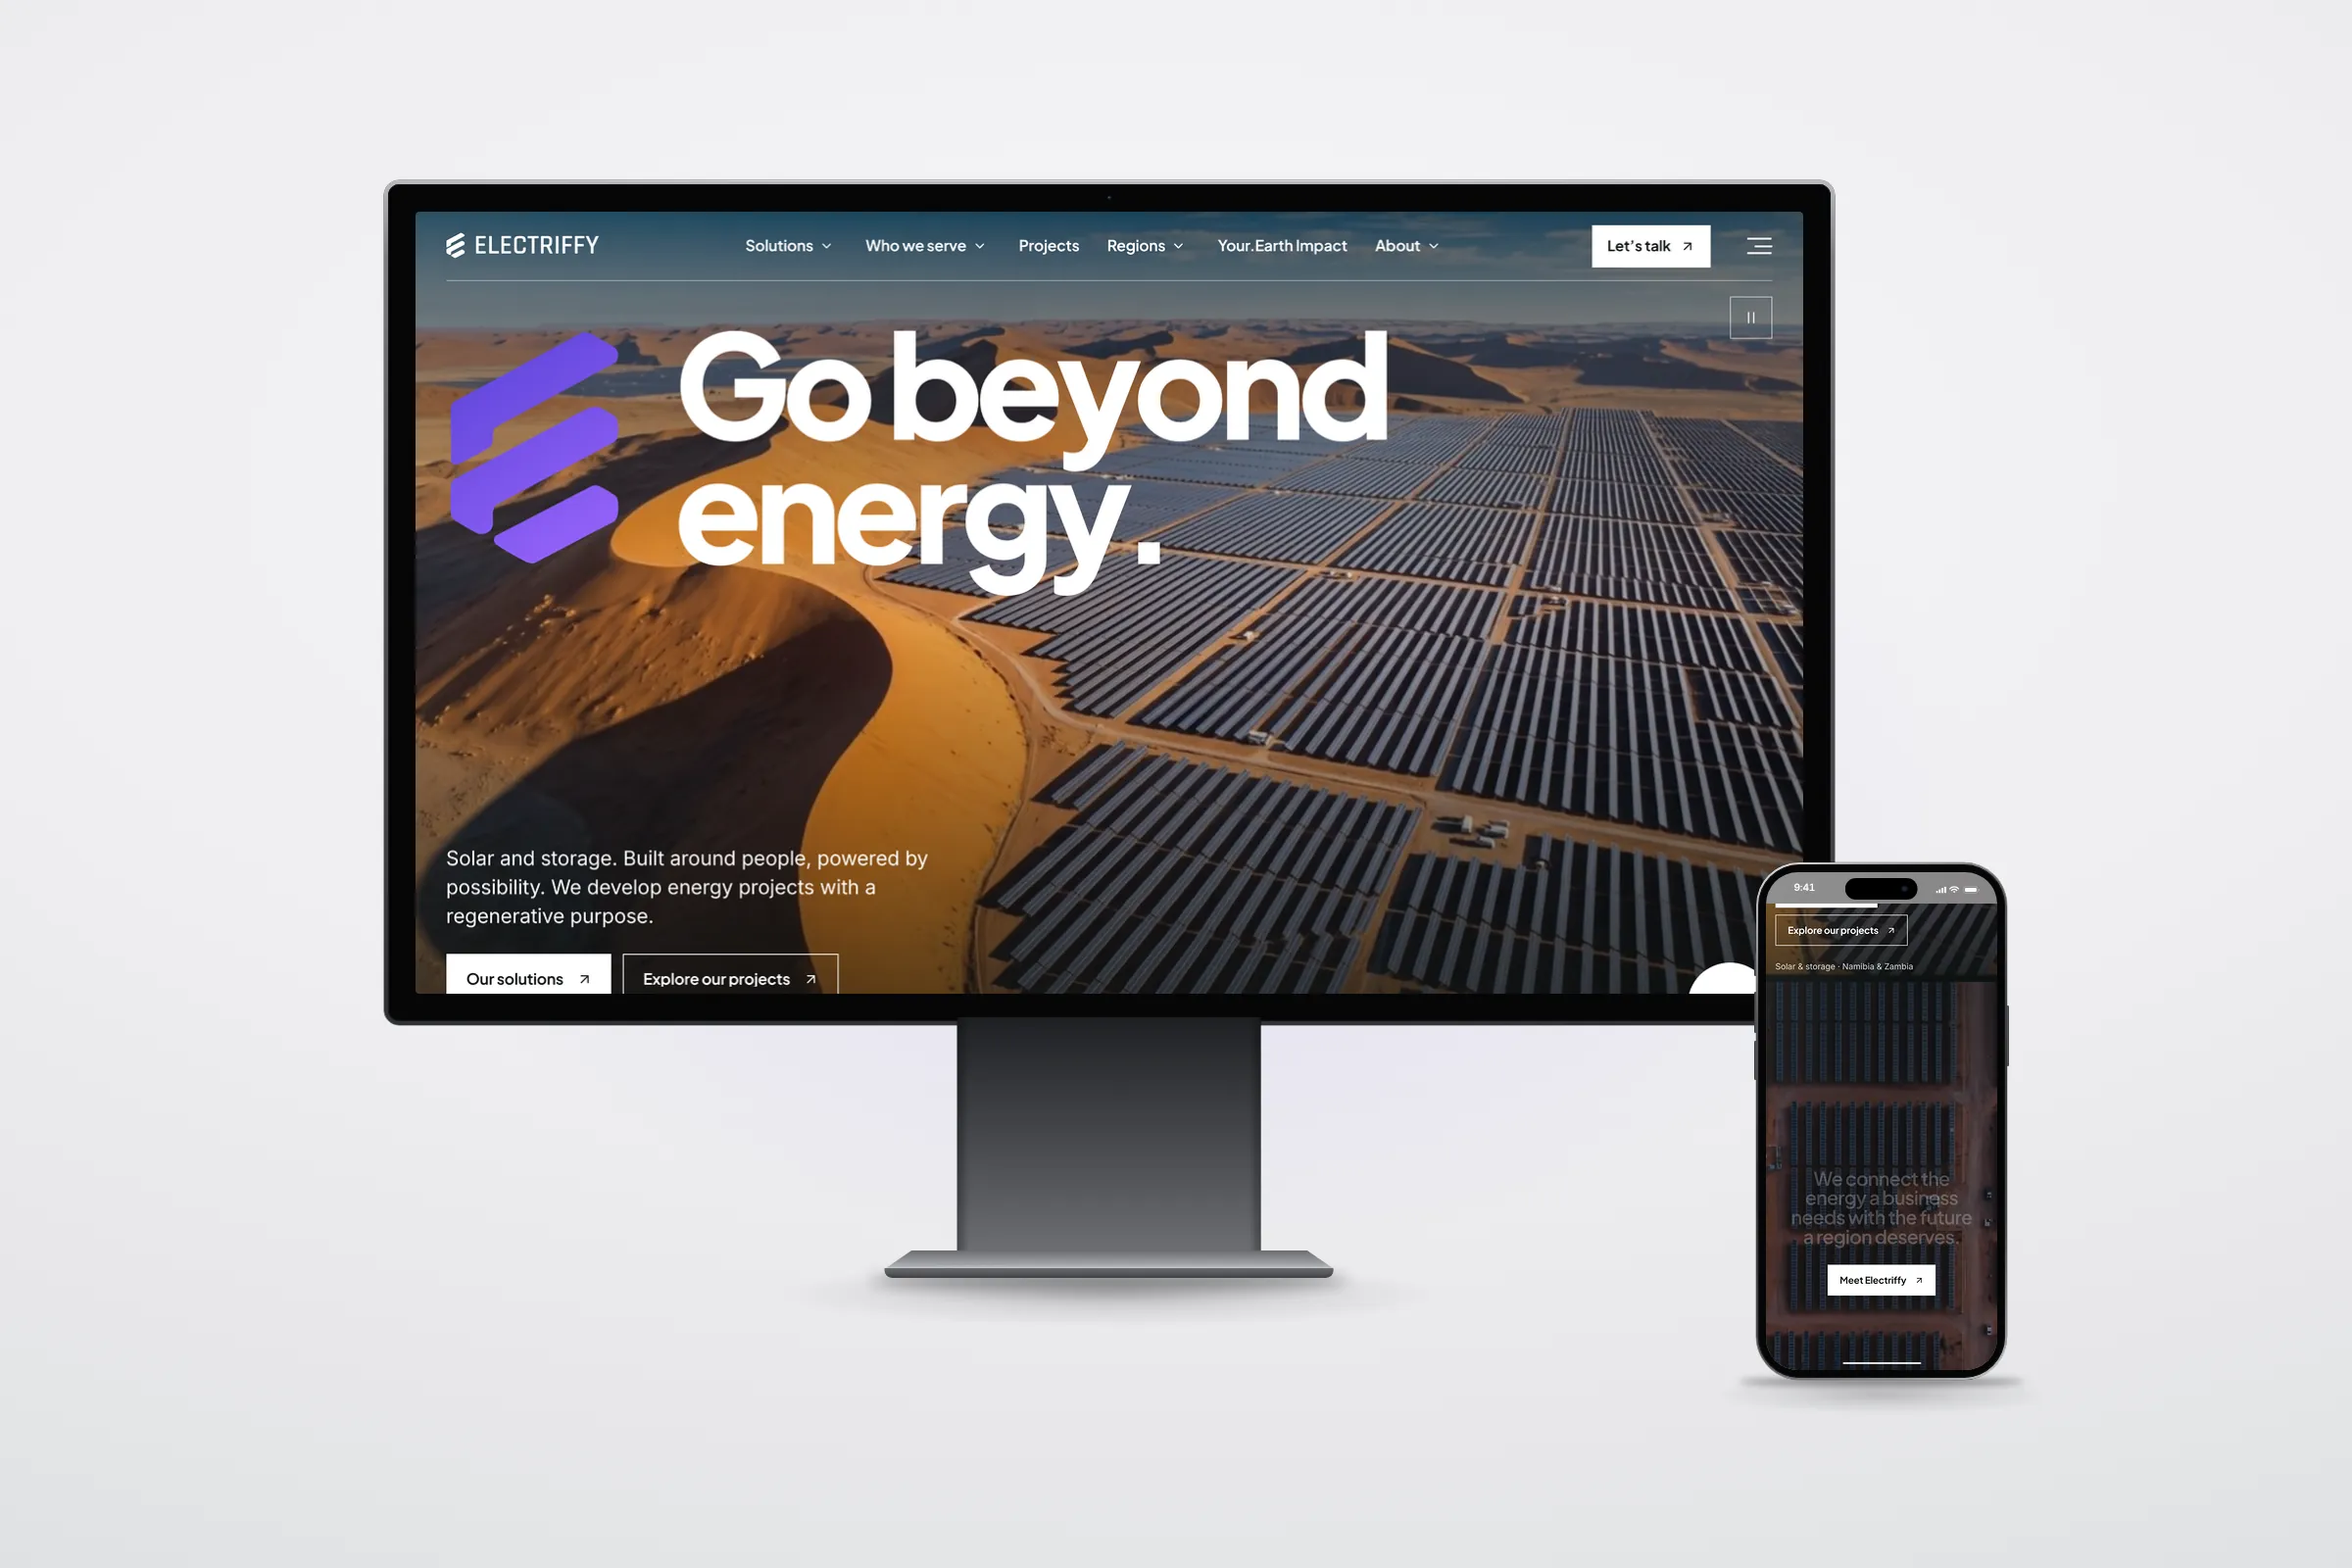
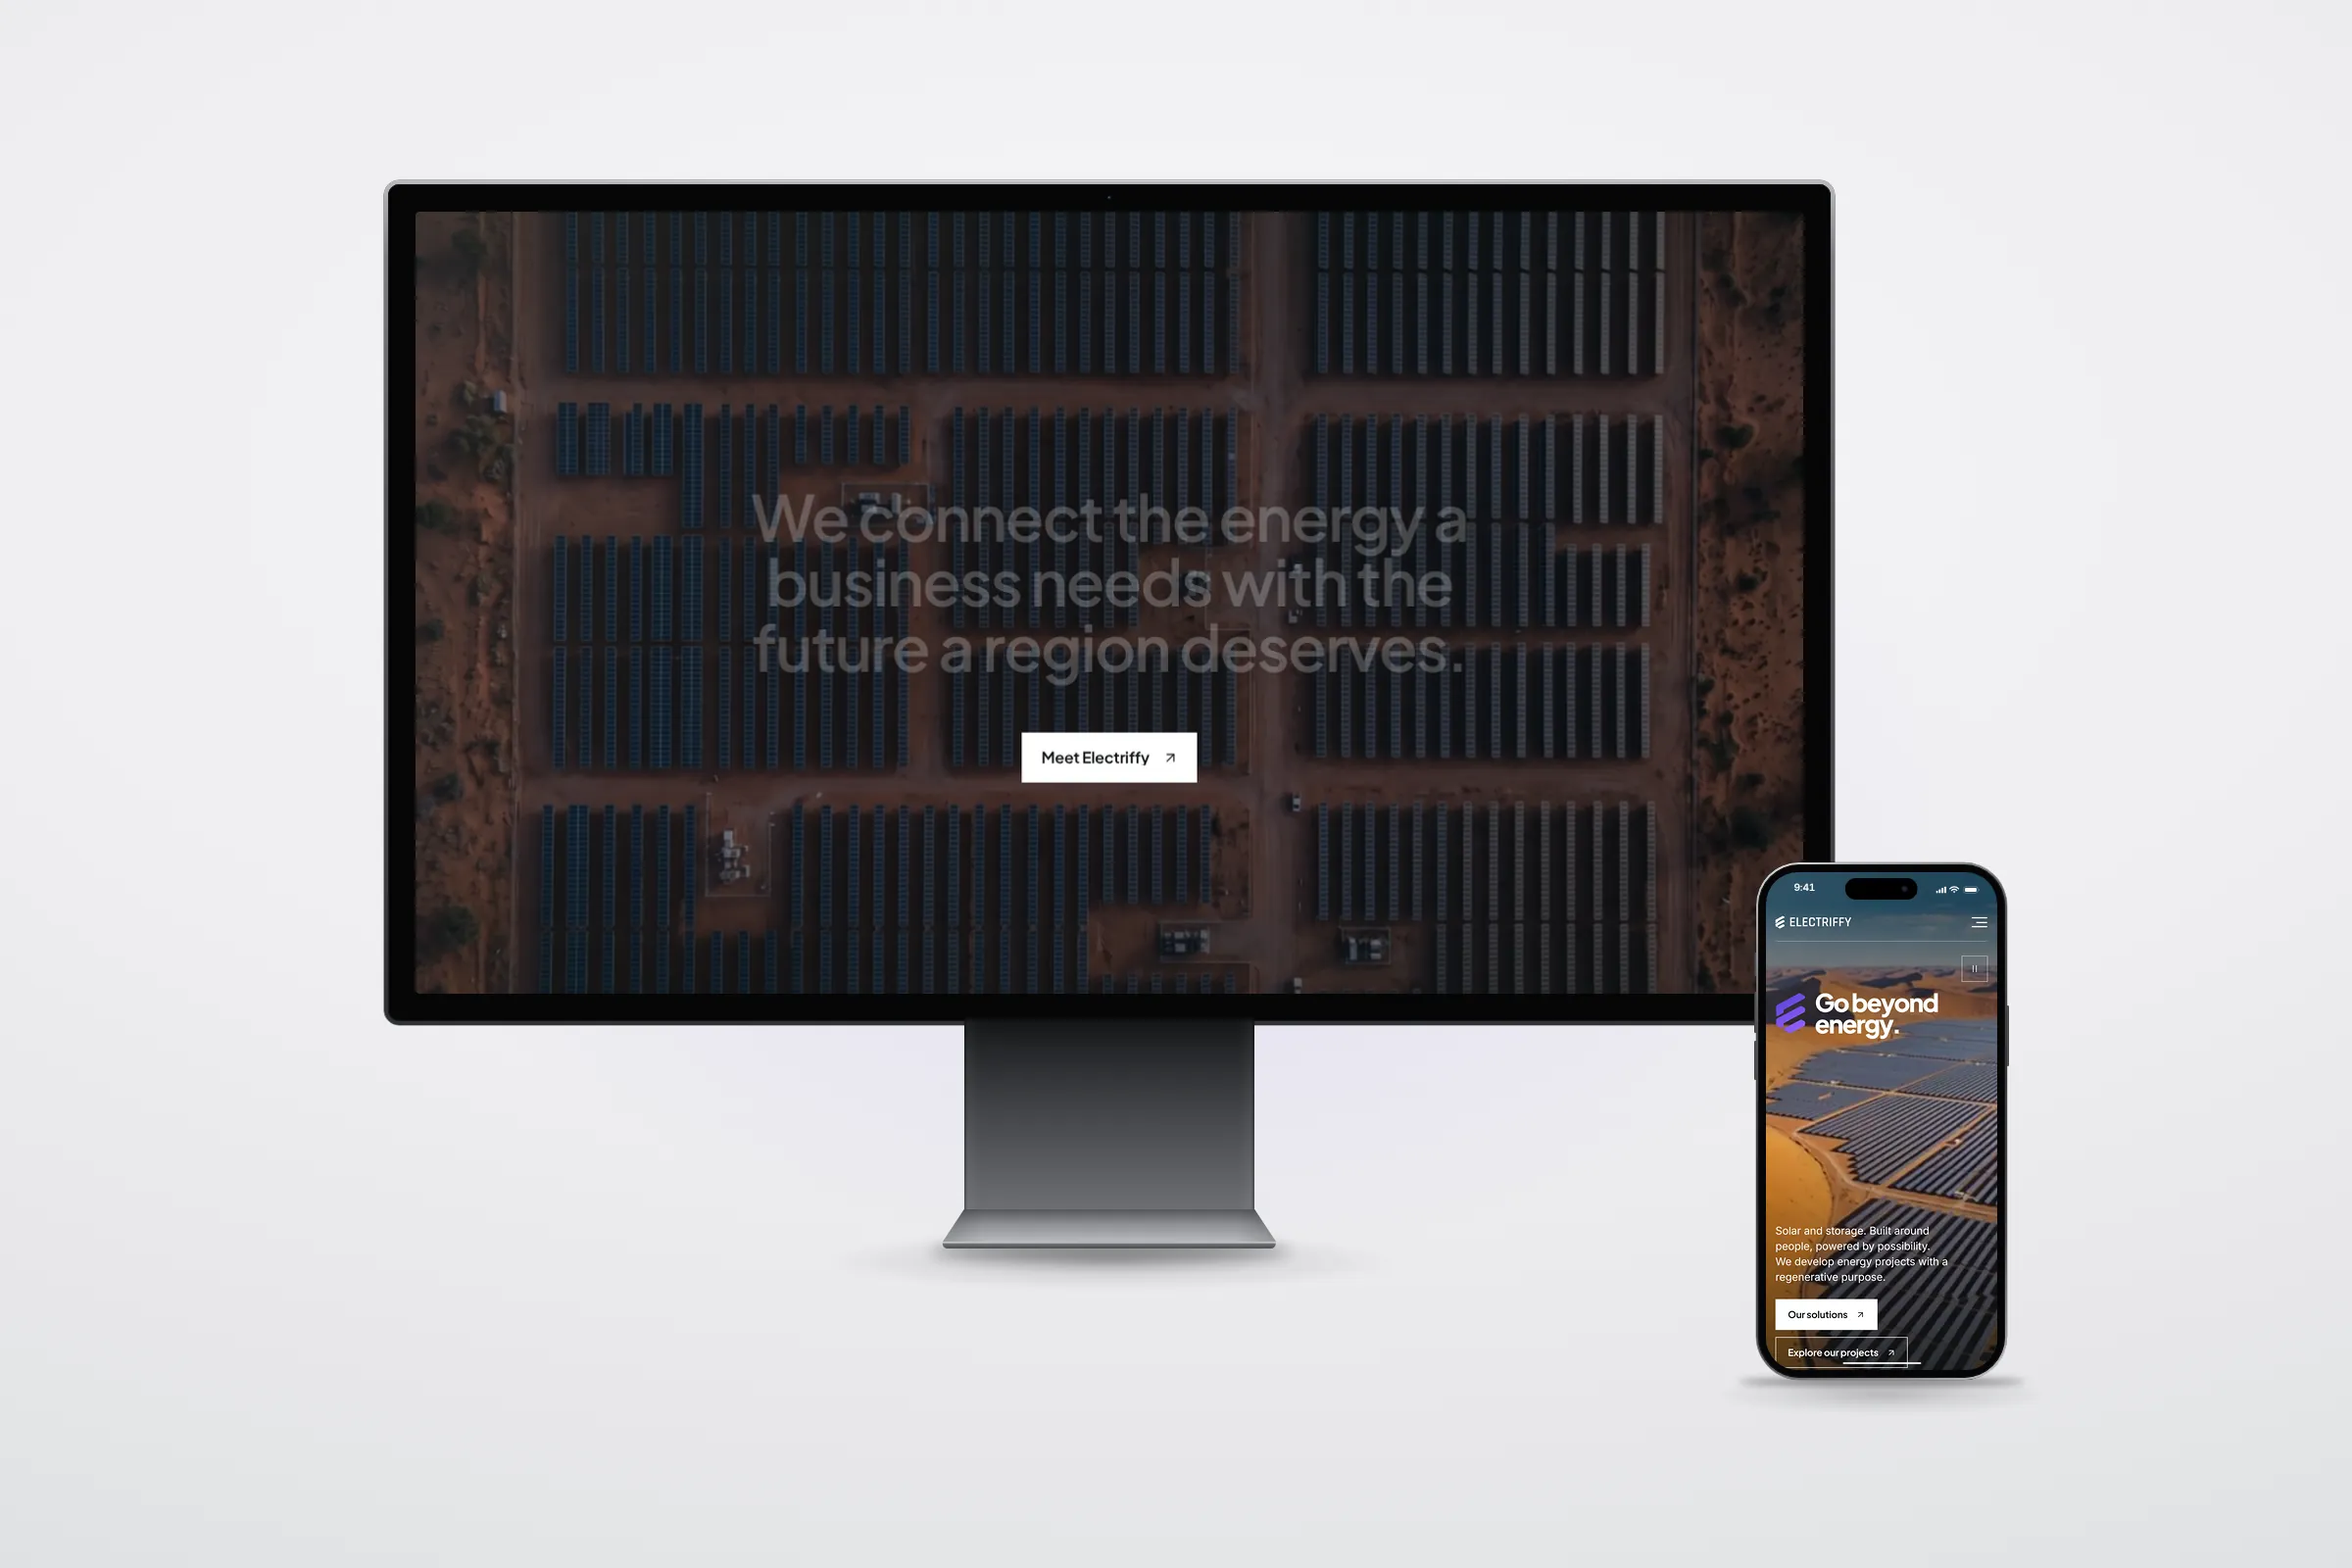
WIP ronde 10: mockups (tussenstand)
Claude-Session: https://claude.ai/code/session_01LWpQqsz2LsbqaoFYXVXiVp

Changed region(s): [[0.1562, 0.125, 0.875, 0.875]]

diff --git a/scripts/mockups/templates/phone.html b/scripts/mockups/templates/phone.html
@@ -1,0 +1,26 @@
+<!doctype html>
+<html>
+  <head>
+    <meta charset="utf-8" />
+    <link rel="stylesheet" href="../../../src/components/cases/devices.css" />
+    <link rel="stylesheet" href="base.css" />
+    <!-- Eén iPhone, groot en licht gedraaid (met dikte): voor sites met maar één scherm. -->
+    <style>
+      body { --W: 1200px; --H: 800px; --gx: 50%; --gy: 50%; }
+      .scene { perspective: 2400px; perspective-origin: 50% 30%; }
+      .phone { position: absolute; left: 470px; top: 72px; width: 290px; transform: rotateY(-22deg) rotateX(6deg) rotateZ(-2deg); }
+      .drop { position: absolute; left: 470px; top: 690px; width: 300px; height: 40px; border-radius: 50%; filter: blur(18px);
+        background: rgba(var(--dx-shade), calc(var(--dx-contact) * 0.55)); }
+    </style>
+  </head>
+  <body>
+    <div class="bg"></div>
+    <div class="drop"></div>
+    <div class="scene">
+      <div class="phone" data-dx="phone" data-shot="mob" data-depth="11" data-floor="0"></div>
+    </div>
+    <div class="grain"></div>
+    <script src="devices.js"></script>
+    <script src="stage.js"></script>
+  </body>
+</html>

diff --git a/scripts/mockups/templates/base.css b/scripts/mockups/templates/base.css
@@ -52,7 +52,7 @@ body {
   background: radial-gradient(120% 95% at 50% 32%, #26272b 0%, #1a1b1e 40%, #111214 72%, #0a0a0c 100%);
 }
 .bg-graphite .bg::before {
-  background: radial-gradient(46% 42% at var(--gx, 50%) var(--gy, 52%), color-mix(in srgb, var(--brand) 20%, transparent), transparent 72%);
+  background: radial-gradient(52% 48% at var(--gx, 50%) var(--gy, 52%), color-mix(in srgb, var(--brand) 30%, transparent), color-mix(in srgb, var(--brand) 8%, transparent) 55%, transparent 78%);
 }
 
 /* ---------- getint: merkkleur, heel gedempt (licht) ---------- */
@@ -101,4 +101,8 @@ body {
   height: 100%;
   object-fit: cover;
   object-position: 50% 0;
+}
+
+[data-missing] {
+  display: none !important;
 }

diff --git a/scripts/mockups/templates/stage.js b/scripts/mockups/templates/stage.js
@@ -14,6 +14,13 @@
   b.style.setProperty("--brand", M.brand);
   if (M.vars) for (const k in M.vars) b.style.setProperty(k, M.vars[k]);
   if (M.cls) b.classList.add(...M.cls);
+  // ontbrekende beelden: element markeren + body-klasse, zodat een template kan herschikken
+  const has = M.has || Object.keys(M.shots || {});
+  document.querySelectorAll("[data-shot]").forEach((el) => {
+    if (has.includes(el.dataset.shot)) return;
+    el.dataset.missing = "1";
+    b.classList.add(`no-${el.dataset.shot}`);
+  });
   window.DX.expand();
   // los bekijken: ruwe screenshots direct in de schermen
   if (M.preview)

diff --git a/scripts/mockups/templates/display.html b/scripts/mockups/templates/display.html
@@ -14,8 +14,8 @@
   <body>
     <div class="bg"></div>
     <div class="scene">
-      <div class="display" data-dx="display" data-shot="desk2"></div>
-      <div class="phone" data-dx="phone" data-shot="mob2"></div>
+      <div class="display" data-dx="display" data-shot="deskSec"></div>
+      <div class="phone" data-dx="phone" data-shot="mob"></div>
     </div>
     <div class="grain"></div>
     <script src="devices.js"></script>

diff --git a/scripts/mockups/templates/detail.html b/scripts/mockups/templates/detail.html
@@ -9,6 +9,7 @@
       body { --W: 1200px; --H: 860px; --gx: 48%; --gy: 50%; }
       .card.main { left: 104px; top: 150px; width: 720px; height: 540px; --card-r: 16px; }
       .card.side { left: 752px; top: 236px; width: 300px; height: 454px; --card-r: 22px; }
+      .no-detailMob .card.main { left: 200px; top: 160px; width: 800px; height: 600px; }
     </style>
   </head>
   <body>
